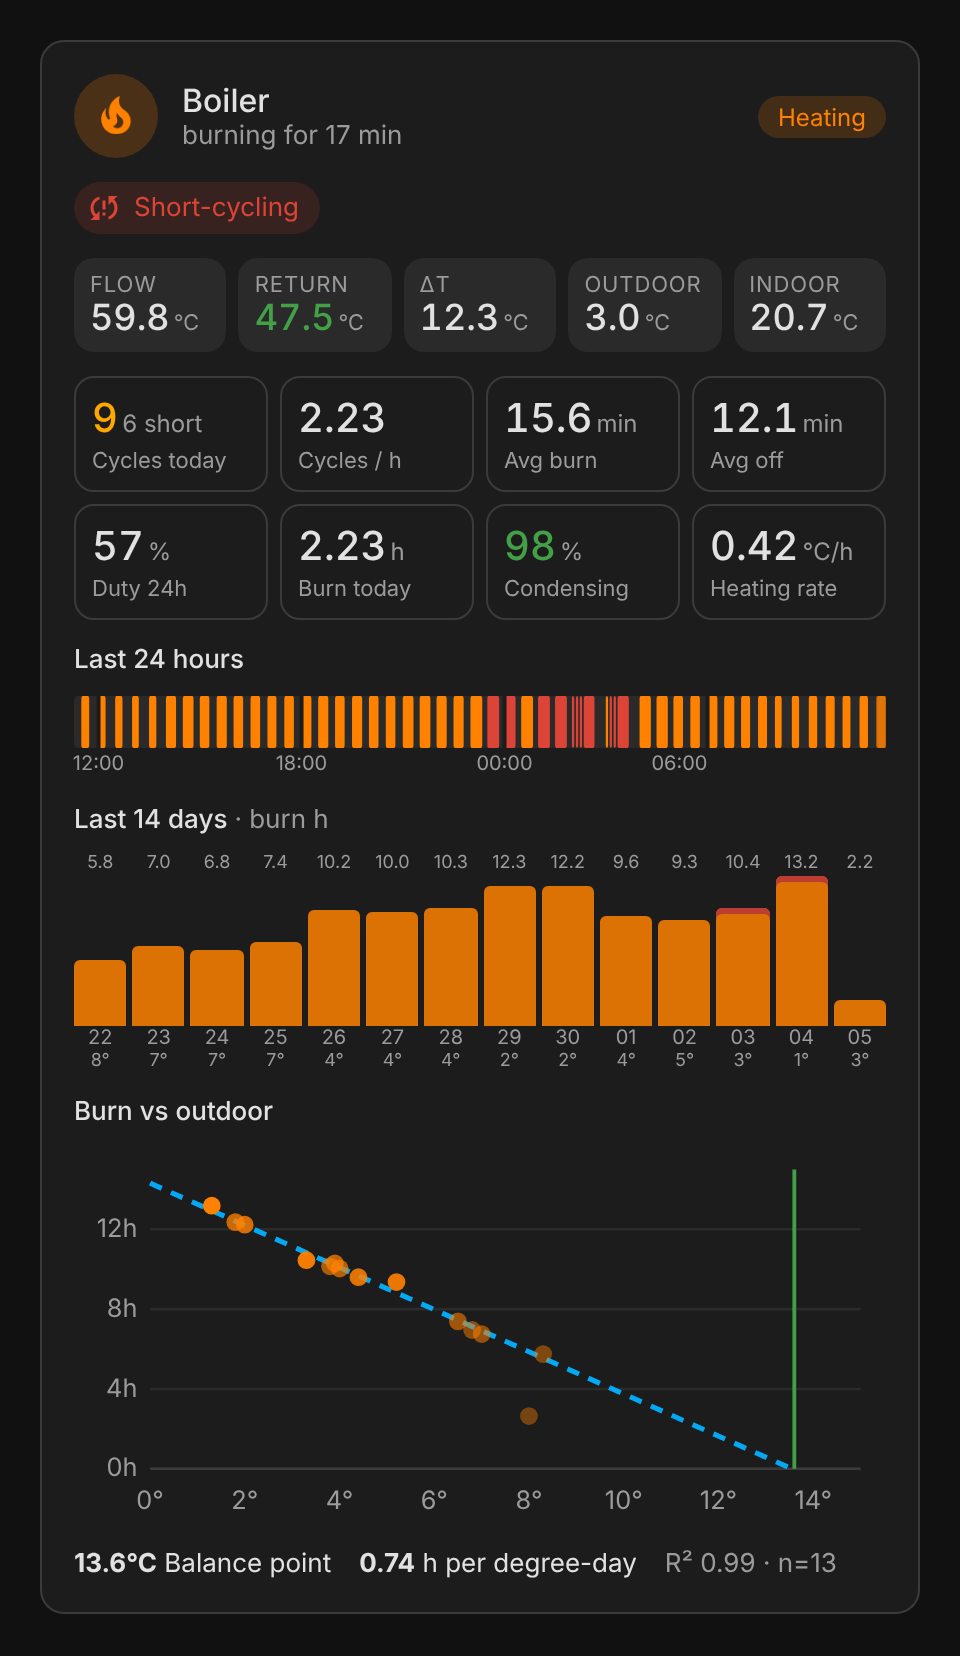
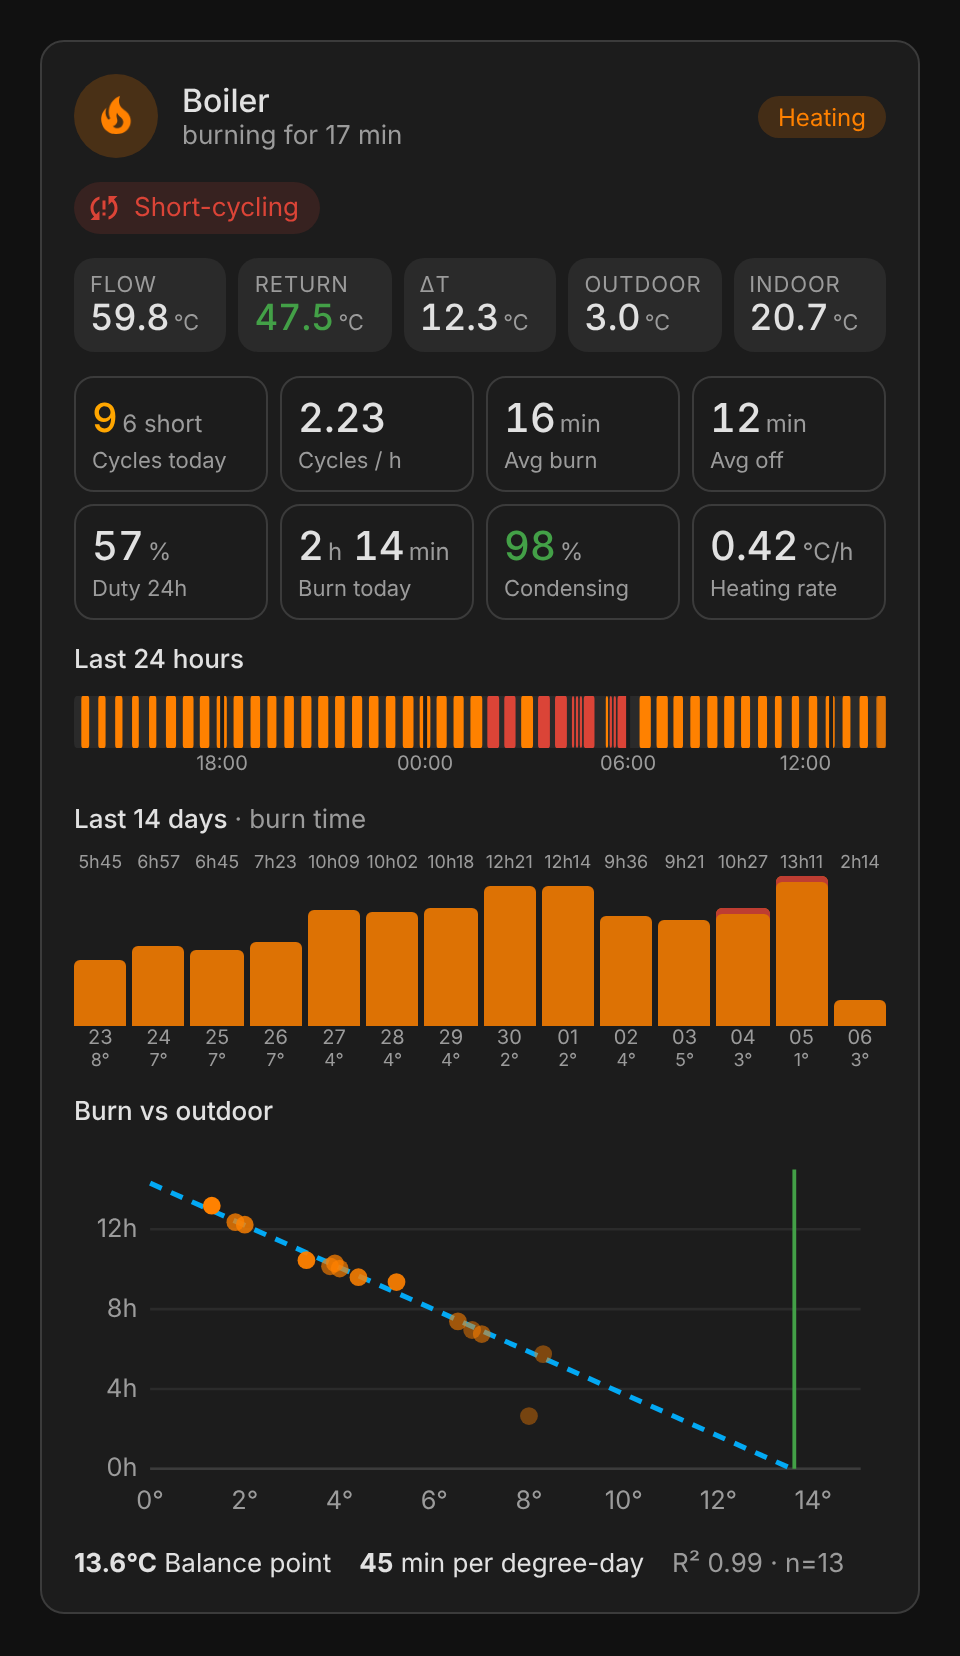
Card: show durations as hours and minutes; release 1.0.4
Claude-Session: https://claude.ai/code/session_01Ct7Z5y8p9f3vnF1G4frwYi

diff --git a/custom_components/boiler_monitor/frontend/boiler-monitor-card.js b/custom_components/boiler_monitor/frontend/boiler-monitor-card.js
@@ -10,7 +10,7 @@
  *   show_daily: true
  *   show_correlation: true
  */
-const CARD_VERSION = "1.0.3";
+const CARD_VERSION = "1.0.4";
 
 const I18N = {
   en: {
@@ -20,9 +20,9 @@ const I18N = {
     cycles_today: "Cycles today", cycles_h: "Cycles / h", avg_burn: "Avg burn", avg_off: "Avg off",
     duty: "Duty 24h", burn_today: "Burn today", cond: "Condensing", rate: "Heating rate",
     short: "short", last24: "Last 24 hours", days: "Last 14 days", corr: "Burn vs outdoor",
-    balance: "Balance point", per_hdd: "h per degree-day", not_enough: "Needs ≥ 3 full days of data",
+    balance: "Balance point", per_hdd: "min per degree-day", not_enough: "Needs ≥ 3 full days of data",
     a_short: "Short-cycling", a_cond: "Condensation lost", a_ineff: "Heating ineffective",
-    no_entity: "Pick the Boiler Monitor status sensor", burn_h: "burn h",
+    no_entity: "Pick the Boiler Monitor status sensor", burn_h: "burn time",
   },
   ro: {
     heating: "Încălzește", idle: "În așteptare", off_season: "În afara sezonului", unavailable: "Indisponibil",
@@ -31,13 +31,33 @@ const I18N = {
     cycles_today: "Cicluri azi", cycles_h: "Cicluri / h", avg_burn: "Ardere medie", avg_off: "Pauză medie",
     duty: "Funcționare 24h", burn_today: "Ardere azi", cond: "Condensare", rate: "Rată încălzire",
     short: "scurte", last24: "Ultimele 24 de ore", days: "Ultimele 14 zile", corr: "Ardere vs exterior",
-    balance: "Punct de echilibru", per_hdd: "h pe grad-zi", not_enough: "Necesită ≥ 3 zile complete de date",
+    balance: "Punct de echilibru", per_hdd: "min pe grad-zi", not_enough: "Necesită ≥ 3 zile complete de date",
     a_short: "Short-cycling", a_cond: "Condensare pierdută", a_ineff: "Încălzire ineficientă",
-    no_entity: "Alege senzorul de stare Boiler Monitor", burn_h: "ore ardere",
+    no_entity: "Alege senzorul de stare Boiler Monitor", burn_h: "timp de ardere",
   },
 };
 
 const fmt = (v, d = 1) => (v === null || v === undefined || Number.isNaN(Number(v)) ? "–" : Number(v).toFixed(d));
+// Durations: never decimal hours. < 60 min -> "45 min"; otherwise "2 h 05 min".
+const durText = (min) => {
+  if (min === null || min === undefined || Number.isNaN(Number(min))) return "–";
+  const m = Math.round(Number(min));
+  if (m < 60) return `${m} min`;
+  return `${Math.floor(m / 60)} h ${String(m % 60).padStart(2, "0")} min`;
+};
+// Same, split for tiles: [value html, unit]
+const durTile = (min) => {
+  if (min === null || min === undefined || Number.isNaN(Number(min))) return ["–", "min"];
+  const m = Math.round(Number(min));
+  if (m < 60) return [String(m), "min"];
+  return [`${Math.floor(m / 60)}<small>h</small> ${String(m % 60).padStart(2, "0")}`, "min"];
+};
+// Compact, for small labels: "45m", "5h48"
+const durShort = (min) => {
+  if (min === null || min === undefined || Number.isNaN(Number(min))) return "–";
+  const m = Math.round(Number(min));
+  return m < 60 ? `${m}m` : `${Math.floor(m / 60)}h${String(m % 60).padStart(2, "0")}`;
+};
 const esc = (s) => String(s ?? "").replace(/[&<>"]/g, (c) => ({ "&": "&amp;", "<": "&lt;", ">": "&gt;", '"': "&quot;" }[c]));
 
 class BoilerMonitorCard extends HTMLElement {
@@ -128,7 +148,7 @@ class BoilerMonitorCard extends HTMLElement {
     ].filter(Boolean);
 
     const sub = status === "heating" && s.current_burn_min != null
-      ? `${t.burning_for} ${fmt(s.current_burn_min, 0)} ${t.min}`
+      ? `${t.burning_for} ${durText(s.current_burn_min)}`
       : (t[status] || status);
 
     const header = `
@@ -151,9 +171,9 @@ class BoilerMonitorCard extends HTMLElement {
       body = `
         <div class="crow">
           ${this._mini("cycles_per_hour", t.cycles_h, fmt(s.cycles_per_hour, 1), "", s.short_cycles_today ? "warn" : "")}
-          ${this._mini("avg_burn", t.avg_burn, fmt(s.avg_burn_min, 0), t.min)}
+          ${this._mini("avg_burn", t.avg_burn, ...durTile(s.avg_burn_min))}
           ${a.sources?.return ? this._mini("condensing_ratio", t.cond, fmt(s.condensing_ratio, 0), "%", this._condCls(s.condensing_ratio)) : this._mini("duty_cycle", t.duty, fmt(s.duty_cycle, 0), "%")}
-          ${a.sources?.flow && a.sources?.return ? this._mini("delta_t", t.dt, fmt(s.delta_t, 1), "°") : this._mini("burn_time_today", t.burn_today, fmt(s.burn_hours_today, 1), t.h)}
+          ${a.sources?.flow && a.sources?.return ? this._mini("delta_t", t.dt, fmt(s.delta_t, 1), "°") : this._mini("burn_time_today", t.burn_today, ...durTile(s.burn_hours_today == null ? null : s.burn_hours_today * 60))}
         </div>
         ${this._timeline(a, true)}`;
     } else {
@@ -169,10 +189,10 @@ class BoilerMonitorCard extends HTMLElement {
       const tiles = [
         ["cycles_today", t.cycles_today, fmt(s.cycles_today, 0), s.short_cycles_today ? `${s.short_cycles_today} ${t.short}` : "", s.short_cycles_today ? "warn" : ""],
         ["cycles_per_hour", t.cycles_h, fmt(s.cycles_per_hour, 2), "", (s.cycles_per_hour ?? 0) > 3 ? "warn" : ""],
-        ["avg_burn", t.avg_burn, fmt(s.avg_burn_min, 1), t.min, ""],
-        ["avg_off", t.avg_off, fmt(s.avg_off_min, 1), t.min, ""],
+        ["avg_burn", t.avg_burn, ...durTile(s.avg_burn_min), ""],
+        ["avg_off", t.avg_off, ...durTile(s.avg_off_min), ""],
         ["duty_cycle", t.duty, fmt(s.duty_cycle, 0), "%", ""],
-        ["burn_time_today", t.burn_today, fmt(s.burn_hours_today, 2), t.h, ""],
+        ["burn_time_today", t.burn_today, ...durTile(s.burn_hours_today == null ? null : s.burn_hours_today * 60), ""],
         a.sources?.return && ["condensing_ratio", t.cond, fmt(s.condensing_ratio, 0), "%", this._condCls(s.condensing_ratio)],
         a.entities?.heating_rate && ["heating_rate", t.rate, fmt(s.heating_rate, 2), "°C/h", (s.heating_rate ?? 1) <= 0 ? "warn" : ""],
       ].filter(Boolean);
@@ -248,8 +268,8 @@ class BoilerMonitorCard extends HTMLElement {
     const bars = days.map((d) => {
       const h = (d.burn_h / max) * 100;
       const dd = d.date.slice(8, 10);
-      const tip = `${d.date}: ${fmt(d.burn_h, 1)} h · ${d.cycles} cyc${d.short ? ` (${d.short} ${t.short})` : ""}${d.outdoor != null ? ` · ${fmt(d.outdoor, 1)}°C` : ""}${d.cond_pct != null ? ` · ${fmt(d.cond_pct, 0)}%` : ""}`;
-      return `<div class="bar" title="${esc(tip)}"><div class="bv">${fmt(d.burn_h, 1)}</div>
+      const tip = `${d.date}: ${durText(d.burn_h * 60)} · ${d.cycles} cyc${d.short ? ` (${d.short} ${t.short})` : ""}${d.outdoor != null ? ` · ${fmt(d.outdoor, 1)}°C` : ""}${d.cond_pct != null ? ` · ${fmt(d.cond_pct, 0)}%` : ""}`;
+      return `<div class="bar" title="${esc(tip)}"><div class="bv">${durShort(d.burn_h * 60)}</div>
         <div class="bcol"><div class="bf ${d.short ? "has-short" : ""}" style="height:${h}%"></div></div>
         <div class="bd">${dd}</div>${d.outdoor != null ? `<div class="bo">${fmt(d.outdoor, 0)}°</div>` : ""}</div>`;
     }).join("");
@@ -272,7 +292,7 @@ class BoilerMonitorCard extends HTMLElement {
     const X = (v) => P.l + ((v - xmin) / (xmax - xmin)) * (W - P.l - P.r);
     const Y = (v) => H - P.b - (v / ymax) * (H - P.t - P.b);
     const dots = pts.map((p, i) => `<circle cx="${X(p.outdoor).toFixed(1)}" cy="${Y(p.burn_h).toFixed(1)}" r="3.5"
-      class="dot" style="opacity:${(0.35 + 0.65 * (i + 1) / pts.length).toFixed(2)}"><title>${esc(p.date)}: ${fmt(p.outdoor)}°C → ${fmt(p.burn_h, 2)} h</title></circle>`).join("");
+      class="dot" style="opacity:${(0.35 + 0.65 * (i + 1) / pts.length).toFixed(2)}"><title>${esc(p.date)}: ${fmt(p.outdoor)}°C → ${durText(p.burn_h * 60)}</title></circle>`).join("");
     let line = "", bp = "";
     if (reg) {
       const f = (x) => reg.intercept + reg.slope * x;
@@ -298,7 +318,7 @@ class BoilerMonitorCard extends HTMLElement {
     const perHdd = a.stats?.burn_per_hdd;
     const foot = `<div class="cfoot">
       ${reg?.balance_point != null ? `<span data-ent="${esc(a.entities?.balance_point || "")}"><b>${fmt(reg.balance_point, 1)}°C</b> ${esc(t.balance)}</span>` : ""}
-      ${perHdd != null ? `<span data-ent="${esc(a.entities?.burn_per_hdd || "")}"><b>${fmt(perHdd, 2)}</b> ${esc(t.per_hdd)}</span>` : ""}
+      ${perHdd != null ? `<span data-ent="${esc(a.entities?.burn_per_hdd || "")}"><b>${fmt(perHdd * 60, 0)}</b> ${esc(t.per_hdd)}</span>` : ""}
       ${reg ? `<span class="muted">R² ${fmt(reg.r2, 2)} · n=${reg.n}</span>` : ""}</div>`;
     return `${head}<svg class="corr" viewBox="0 0 ${W} ${H}">${axes}${bp}${line}${dots}</svg>${foot}`;
   }
@@ -369,6 +389,7 @@ const STYLE = `
   .bars { display: flex; gap: 3px; align-items: stretch; height: 110px; }
   .bar { flex: 1; display: flex; flex-direction: column; align-items: center; min-width: 0; }
   .bv { font-size: 9px; color: var(--secondary-text-color); height: 12px; }
+  @container (max-width: 400px) { .bv { visibility: hidden; } }
   .bcol { flex: 1; width: 100%; display: flex; align-items: flex-end; }
   .bf { width: 100%; background: var(--bm-burn); border-radius: 3px 3px 0 0; min-height: 1px; opacity: .85; }
   .bf.has-short { box-shadow: inset 0 3px 0 var(--bm-short); }

diff --git a/custom_components/boiler_monitor/const.py b/custom_components/boiler_monitor/const.py
@@ -2,7 +2,7 @@
 from __future__ import annotations
 
 DOMAIN = "boiler_monitor"
-VERSION = "1.0.3"
+VERSION = "1.0.4"
 
 # Config (entities) — set in config flow
 CONF_NAME = "name"

diff --git a/README.md b/README.md
@@ -171,7 +171,7 @@ The compact card shows the status, active alerts as icons, four key numbers and 
 6. **Last 14 days**: burn hours per day, with the date and average outdoor temperature underneath. A red cap marks days with short cycles.
 7. **Burn vs outdoor**: one dot per full day (newer days are more opaque), the regression line, the balance point (green line), burn per degree-day and R².
 
-Tapping any value opens the more-info dialog of the underlying entity. The card follows your theme (light/dark), works in both masonry and sections views, and has a visual editor.
+Durations are shown in hours and minutes (e.g. `2 h 14 min`, `45 min`), never as decimal hours. Tapping any value opens the more-info dialog of the underlying entity. The card follows your theme (light/dark), works in both masonry and sections views, and has a visual editor.
 
 A complete example dashboard view is in [`examples/dashboard.yaml`](examples/dashboard.yaml).
 

diff --git a/docs/release-notes/v1.0.4.md b/docs/release-notes/v1.0.4.md
@@ -1,0 +1,12 @@
+### Changed
+- **Card:** durations are no longer shown as decimal hours. Everything is now in hours and minutes:
+  - burn today, average burn, average off: `2 h 14 min`, `16 min`
+  - "burning for …" in the header: `1 h 05 min`
+  - daily bars: `5h48` (the labels hide automatically on narrow cards; hover a bar for the full value)
+  - burn per degree-day: shown in **minutes** per degree-day
+- README screenshots updated.
+
+The sensors themselves are unchanged (same units), so history and automations are not affected.
+
+### Upgrade
+Update via HACS, restart Home Assistant, then hard-refresh the browser (Ctrl+F5) to load the new card.
